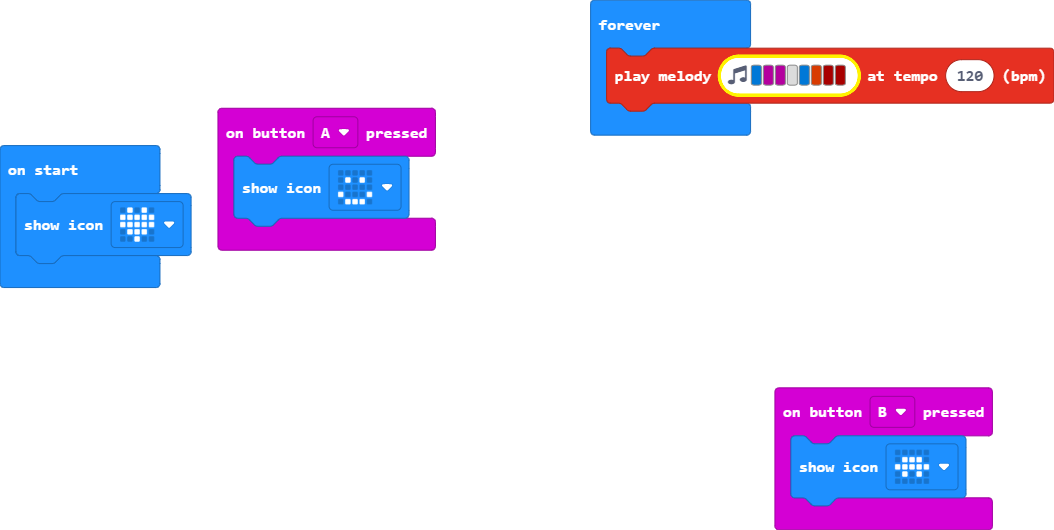
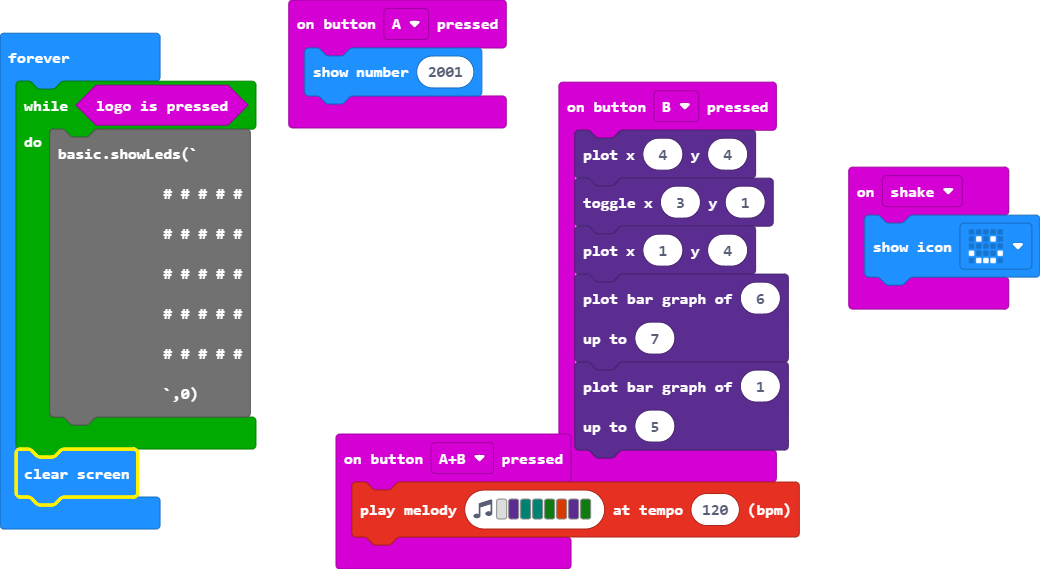
Update pxt.json, main.blocks, main.ts

diff --git a/main.ts b/main.ts
@@ -1,10 +1,34 @@
 input.onButtonPressed(Button.A, function () {
-    basic.showIcon(IconNames.Happy)
+    basic.showNumber(2001)
+})
+input.onButtonPressed(Button.AB, function () {
+    music.playMelody("- D F F G B D G ", 120)
 })
 input.onButtonPressed(Button.B, function () {
-    basic.showIcon(IconNames.Tortoise)
+    led.plot(4, 4)
+    led.toggle(3, 1)
+    led.plot(1, 4)
+    led.plotBarGraph(
+    6,
+    7
+    )
+    led.plotBarGraph(
+    1,
+    5
+    )
 })
-basic.showIcon(IconNames.Heart)
+input.onGesture(Gesture.Shake, function () {
+    basic.showIcon(IconNames.Happy)
+})
 basic.forever(function () {
-    music.playMelody("E C C - E B C5 C5 ", 120)
+    while (input.logoIsPressed()) {
+        basic.showLeds(`
+            # # # # #
+            # # # # #
+            # # # # #
+            # # # # #
+            # # # # #
+            `,0)
+    }
+    basic.clearScreen()
 })
